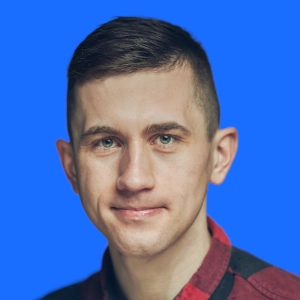
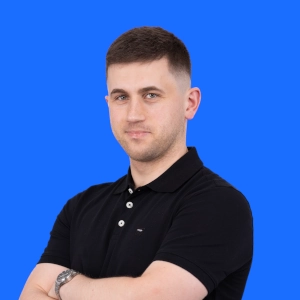
update site's profile picture, cv, and html

diff --git a/index.html b/index.html
@@ -31,7 +31,7 @@
       <div class="collapse navbar-collapse" id="navbarResponsive">
         <ul class="navbar-nav">
           <li class="nav-item"><a class="nav-link js-scroll-trigger" href="#about">About</a></li>
-          <li class="nav-item"><a class="nav-link js-scroll-trigger" href="#projects">Projects</a></li>
+          <li class="nav-item"><a class="nav-link js-scroll-trigger" href="#projects">Portfolio</a></li>
           <li class="nav-item"><a class="nav-link js-scroll-trigger" href="#skills">Skills</a></li>
           <li class="nav-item"><a class="nav-link js-scroll-trigger" href="#experience">Experience</a></li>
           <li class="nav-item"><a class="nav-link js-scroll-trigger" href="#interests">Interests</a></li>
@@ -64,8 +64,11 @@
         <!-- Projects -->
         <section class="resume-section my-4 p-2 p-md-2 rounded-end-4 shadow" id="projects">
           <div class="row g-4 resume-section-content text-center text-lg-start px-3 px-md-5 py-4 py-md-5">
-            <h2 class="mb-3 display-6 display-md-4 display-lg-2 fw-bold">Projects</h2>
+            <h2 class="mb-3 display-6 display-md-4 display-lg-2 fw-bold">Portfolio</h2>
             <hr class="text-dark">
+
+            <!-- PROJECT 1 -->
+
             <div class="col-12 col-lg-6 d-flex flex-column flex-md-row justify-content-between mb-3">
               <div class="flex-grow-1">
                 <h3 class="mb-4 text-center">Gazetteer</h3>
@@ -129,13 +132,17 @@
                 </div>
               </div>
             </div>
-            <div class="col-12 col-lg-6 d-flex flex-column flex-md-row justify-content-between">
+
+            <!-- PROJECT 2 -->
+
+            <!-- <div class="col-12 col-lg-6 d-flex flex-column flex-md-row justify-content-between">
               <div class="flex-grow-1">
                 <h3 class="mb-0">Project 2</h3>
                 <div>Screenshot</div>
                 <p class="fs-4">Description</p>
               </div>
-            </div>
+            </div> -->
+
           </div>
         </section>
 